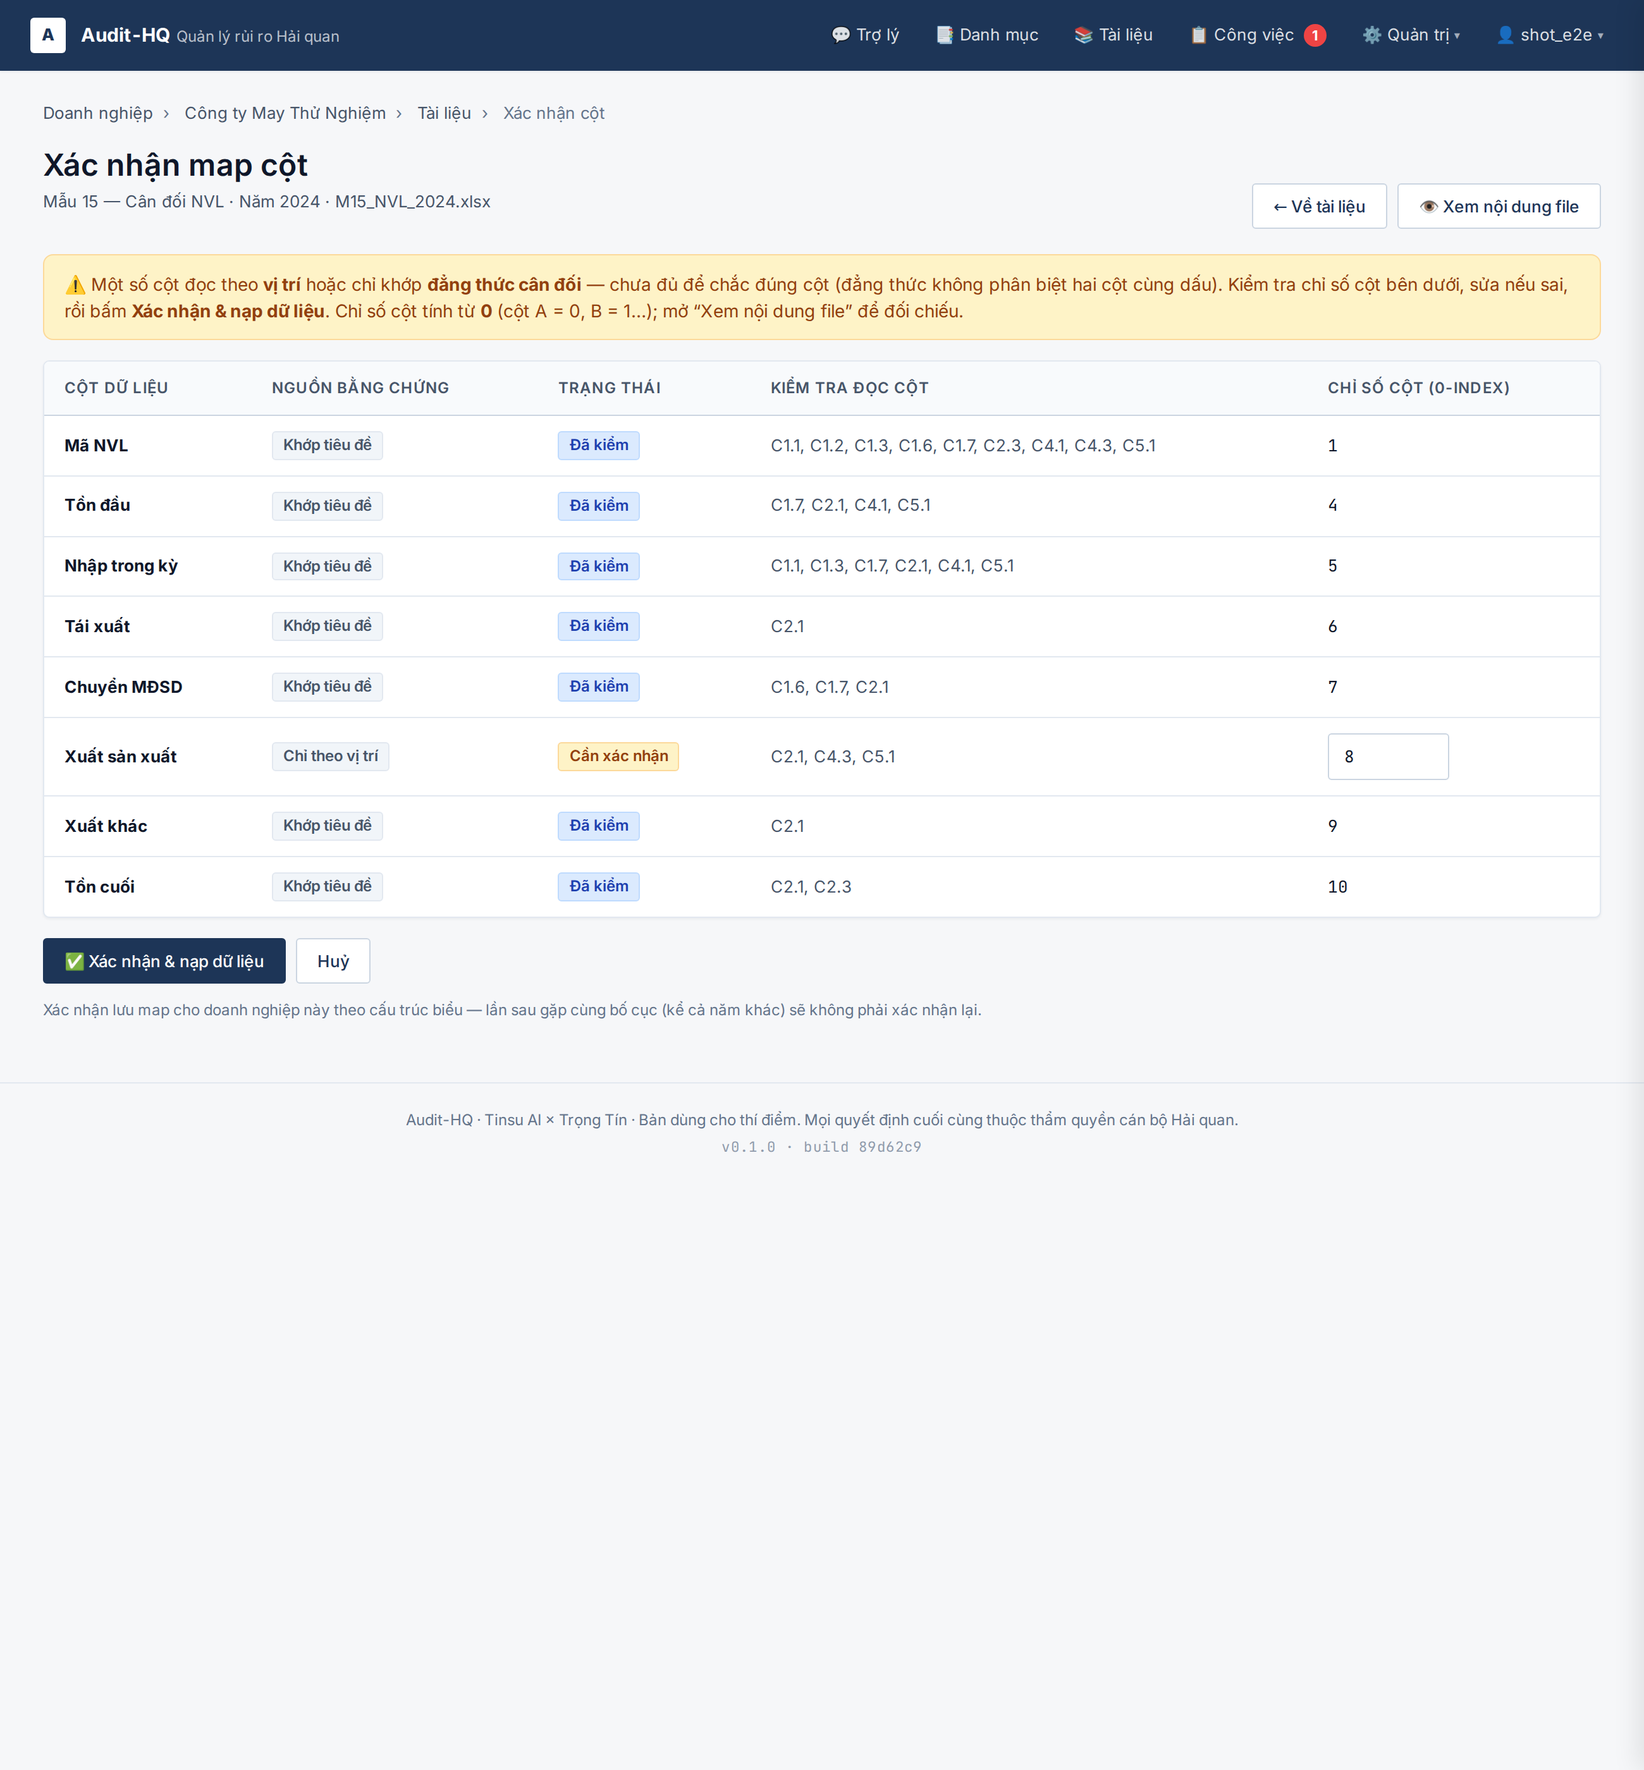
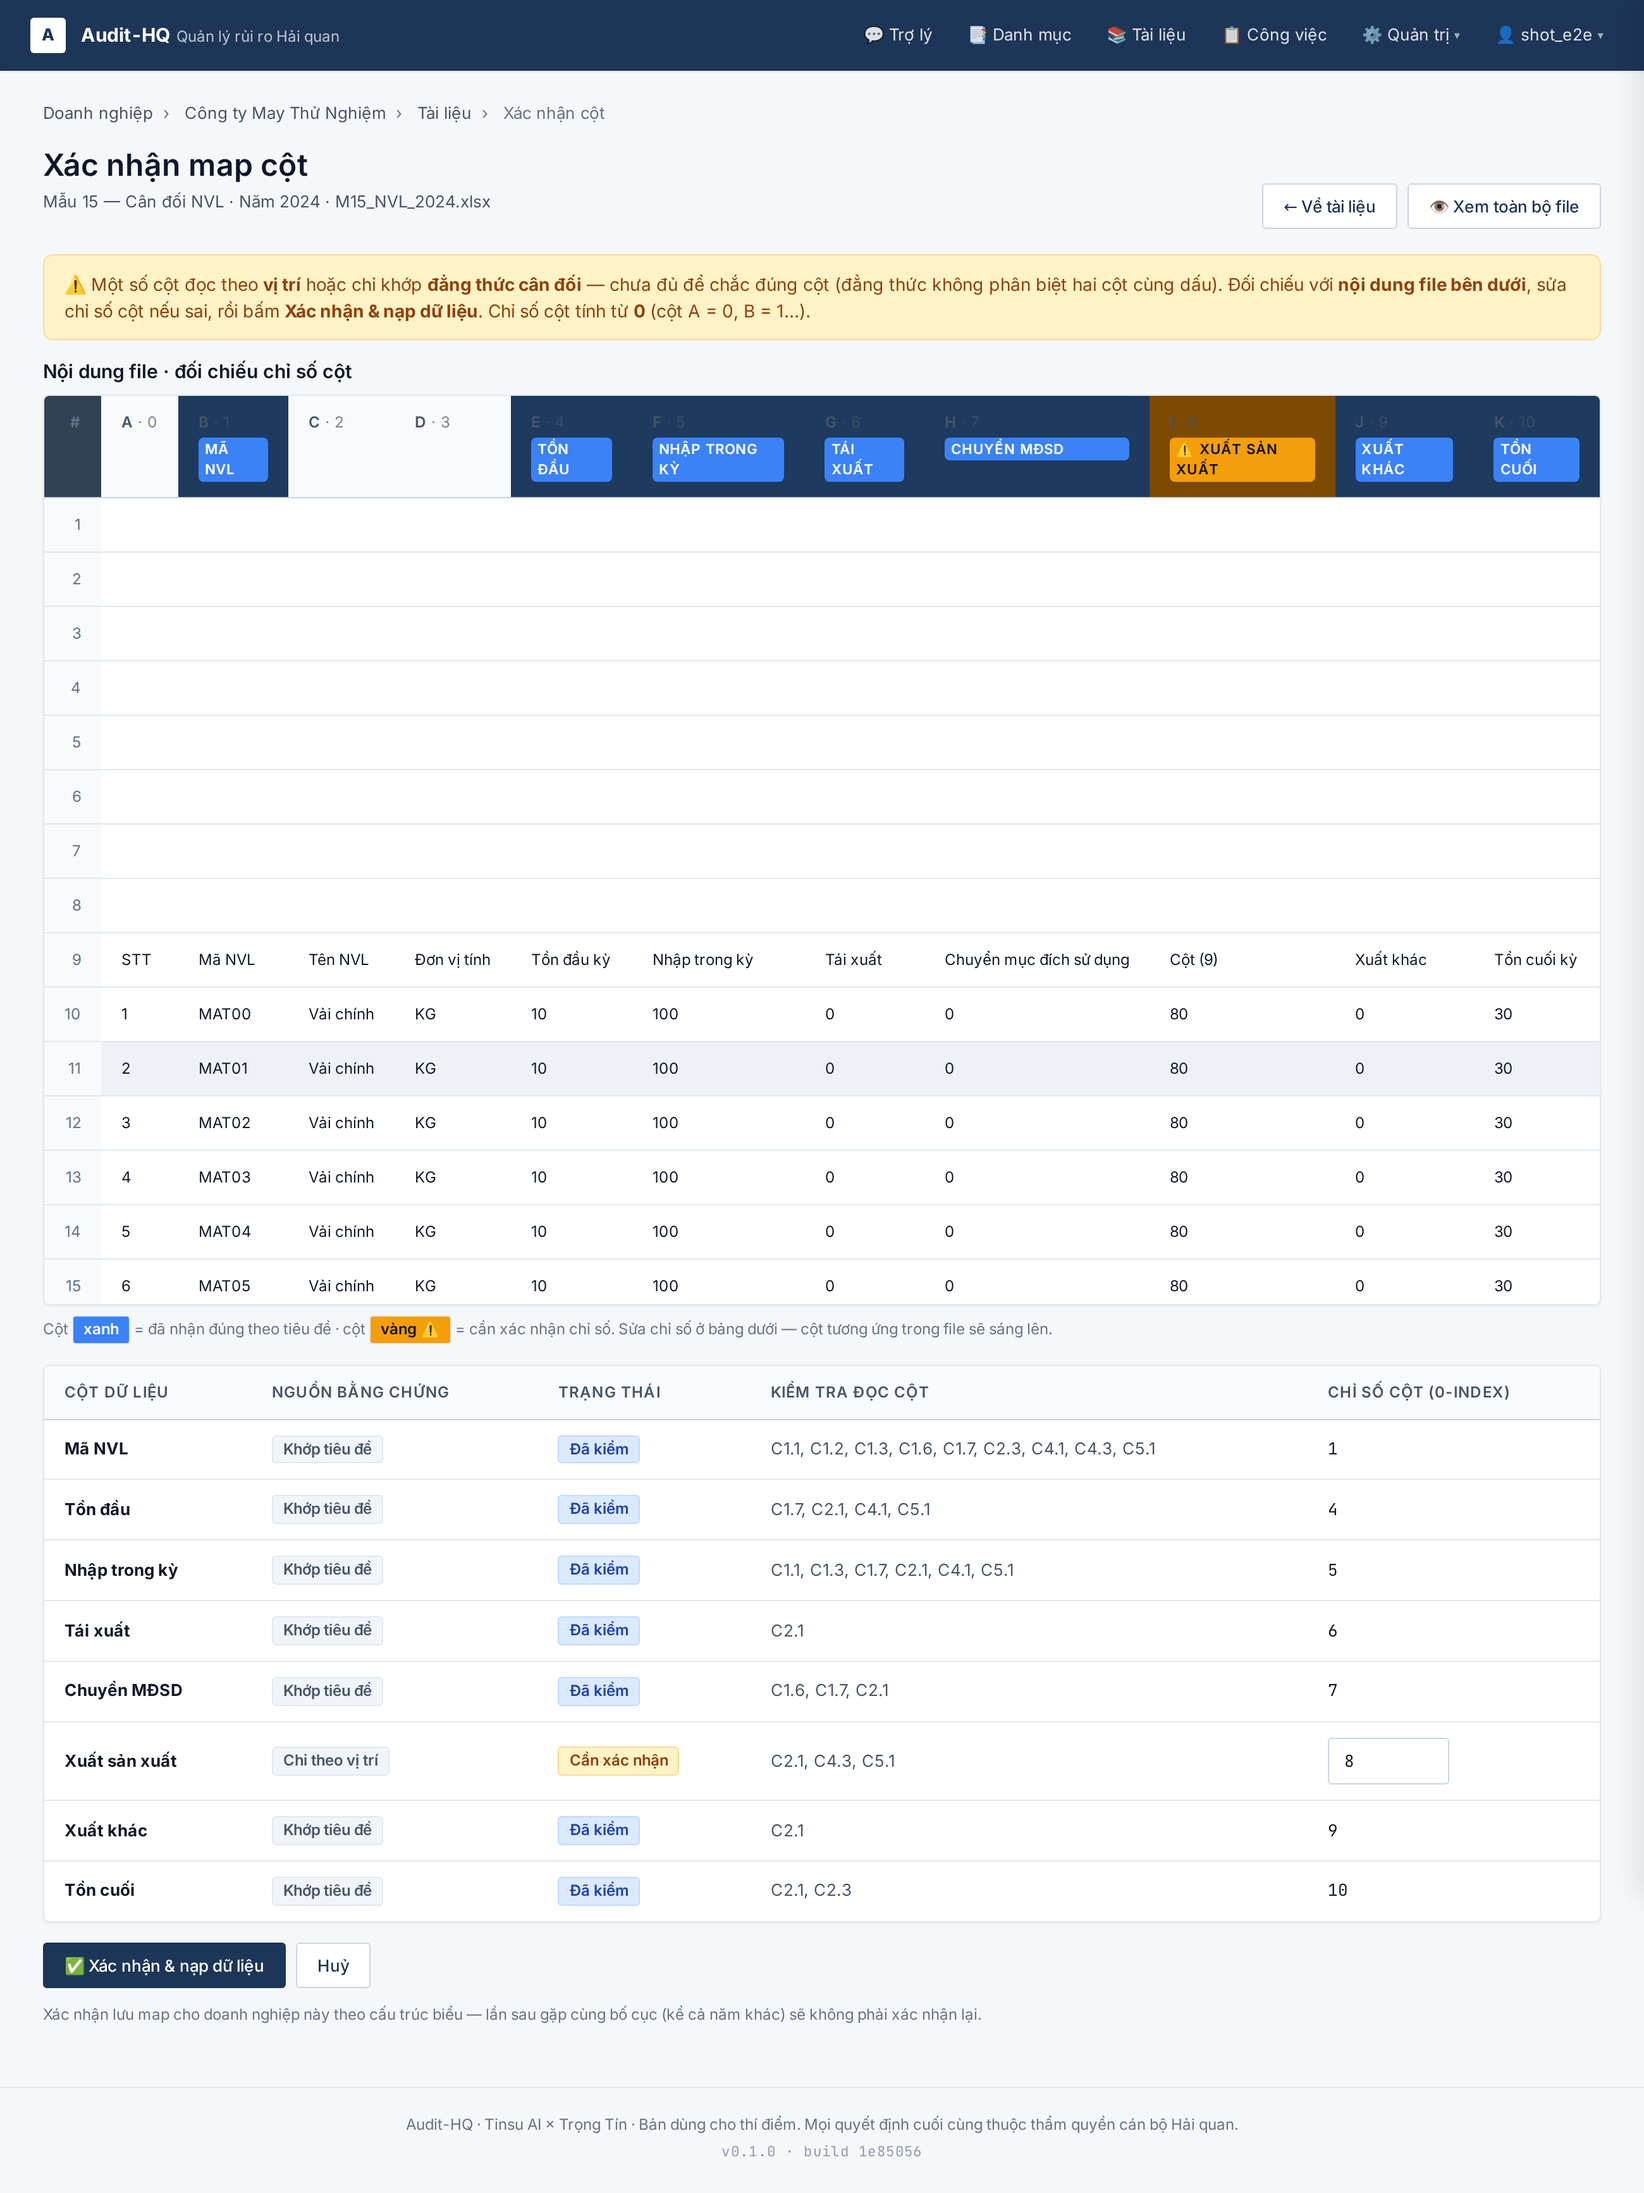
feat(ws1): embed file preview into the column-review screen
The confirm-columns screen showed column indices with no way to see what
is in them — the officer had to open a separate preview page and convert
index -> Excel letter by hand. Now it embeds the raw file grid (first 15
rows) with every column tagged by its mapped field: header-matched columns
blue, needs-review columns amber. Focusing a needs-review index input
live-highlights the matching column in the grid. Excel extraction is
refactored into _extract_sheet_preview(), shared by the preview + review
routes.

diff --git a/app/templates/document_review.html b/app/templates/document_review.html
@@ -1,6 +1,33 @@
 {% extends "base.html" %}
 {% block title %}Xác nhận cột — {{ file.original_filename }} — Audit-HQ{% endblock %}
 {% block content %}
+<style>
+  .preview-table td, .preview-table th {
+    white-space: nowrap; font-size: 12px; max-width: 220px;
+    overflow: hidden; text-overflow: ellipsis;
+  }
+  .preview-table th {
+    position: sticky; top: 0; background: #334155; color: #fff; z-index: 1;
+    vertical-align: top; text-align: left;
+  }
+  .preview-table .preview-rownum {
+    color: var(--c-text-subtle, #9ca3af); text-align: right;
+    background: var(--c-surface-alt, #f9fafb); position: sticky; left: 0;
+  }
+  .preview-table thead .preview-rownum { background: #334155; }
+  .rg-letter { font-weight: 600; }
+  .rg-idx { opacity: .7; font-weight: 400; }
+  .rg-field {
+    font-size: 11px; font-weight: 600; margin-top: 3px;
+    padding: 1px 5px; border-radius: 4px; white-space: normal;
+  }
+  .preview-table th.rg-mapped { background: #1e3a5f; }
+  .preview-table th.rg-mapped .rg-field { background: #3b82f6; color: #fff; }
+  .preview-table th.rg-needs { background: #7c4a03; }
+  .preview-table th.rg-needs .rg-field { background: #f59e0b; color: #111; }
+  .preview-table td.rg-hi { background: #fef3c7 !important; color: #111 !important; }
+  .preview-table th.rg-hi { background: #b45309 !important; }
+</style>
 
 <nav class="breadcrumbs">
   <a href="/companies">Doanh nghiệp</a><span class="sep">›</span>
@@ -18,17 +45,49 @@
   </div>
   <div class="btn-group">
     <a href="/companies/{{ company.slug or company.code }}/documents" class="btn btn-secondary">← Về tài liệu</a>
-    <a href="/companies/{{ company.slug or company.code }}/documents/file/{{ file.id }}/preview" class="btn btn-secondary">👁 Xem nội dung file</a>
+    <a href="/companies/{{ company.slug or company.code }}/documents/file/{{ file.id }}/preview" class="btn btn-secondary">👁 Xem toàn bộ file</a>
   </div>
 </div>
 
 <div class="alert alert-warning" role="status" style="margin-bottom:var(--space-4)">
-  <p style="margin:0">⚠ Một số cột đọc theo <strong>vị trí</strong> hoặc chỉ khớp <strong>đẳng thức cân đối</strong> — chưa đủ để chắc đúng cột (đẳng thức không phân biệt hai cột cùng dấu). Kiểm tra chỉ số cột bên dưới, sửa nếu sai, rồi bấm <strong>Xác nhận &amp; nạp dữ liệu</strong>. Chỉ số cột tính từ <strong>0</strong> (cột A = 0, B = 1…); mở “Xem nội dung file” để đối chiếu.</p>
+  <p style="margin:0">⚠ Một số cột đọc theo <strong>vị trí</strong> hoặc chỉ khớp <strong>đẳng thức cân đối</strong> — chưa đủ để chắc đúng cột (đẳng thức không phân biệt hai cột cùng dấu). Đối chiếu với <strong>nội dung file bên dưới</strong>, sửa chỉ số cột nếu sai, rồi bấm <strong>Xác nhận &amp; nạp dữ liệu</strong>. Chỉ số cột tính từ <strong>0</strong> (cột A = 0, B = 1…).</p>
 </div>
 
 {% if not can_confirm %}
 <div class="card"><p class="text-muted">File này chưa có map cột để xác nhận (chưa phân tích, hoặc không phát hiện cột nào cần xác nhận).</p></div>
 {% else %}
+
+{% if preview and preview.rows and not preview.error %}
+<h2 style="font-size:var(--fs-md);margin:0 0 var(--space-2)">Nội dung file · đối chiếu chỉ số cột</h2>
+<div class="card" style="padding:0;overflow:auto;max-height:48vh;margin-bottom:var(--space-2)">
+  <table class="data-table preview-table" id="review-grid">
+    <thead>
+      <tr>
+        <th class="preview-rownum">#</th>
+        {% for c in preview.columns %}
+        {% set a = col_annot.get(loop.index0) %}
+        <th data-col-index="{{ loop.index0 }}" class="{% if a and a.needs %}rg-needs{% elif a %}rg-mapped{% endif %}">
+          <div class="rg-letter">{{ c }} <span class="rg-idx">· {{ loop.index0 }}</span></div>
+          {% if a %}<div class="rg-field">{% if a.needs %}⚠ {% endif %}{{ a.label }}</div>{% endif %}
+        </th>
+        {% endfor %}
+      </tr>
+    </thead>
+    <tbody>
+      {% for r in preview.rows %}
+      <tr>
+        <td class="preview-rownum">{{ loop.index }}</td>
+        {% for cell in r %}<td data-col-index="{{ loop.index0 }}" title="{{ cell }}">{{ cell }}</td>{% endfor %}
+      </tr>
+      {% endfor %}
+    </tbody>
+  </table>
+</div>
+<p class="form-hint" style="margin:0 0 var(--space-4)">
+  Cột <span class="badge muted" style="background:#3b82f6;color:#fff">xanh</span> = đã nhận đúng theo tiêu đề · cột <span class="badge muted" style="background:#f59e0b;color:#111">vàng ⚠</span> = cần xác nhận chỉ số. Sửa chỉ số ở bảng dưới — cột tương ứng trong file sẽ sáng lên.
+</p>
+{% endif %}
+
 <form method="post" action="/companies/{{ company.slug or company.code }}/documents/file/{{ file.id }}/review">
   <div class="card" style="padding:0;overflow-x:auto">
     <table class="data-table">
@@ -53,7 +112,7 @@
           <td class="text-muted">{% if c.checks %}{{ c.checks|join(', ') }}{% else %}—{% endif %}</td>
           <td>
             {% if needs %}
-            <input type="number" class="form-input mono-input" name="col_{{ c.field }}"
+            <input type="number" class="form-input mono-input review-idx" name="col_{{ c.field }}"
                    value="{{ c.col_index if c.col_index is not none else '' }}" min="0" step="1"
                    style="max-width:96px">
             {% else %}
@@ -75,6 +134,25 @@
     Xác nhận lưu map cho doanh nghiệp này theo cấu trúc biểu — lần sau gặp cùng bố cục (kể cả năm khác) sẽ không phải xác nhận lại.
   </p>
 </form>
+
+<script>
+(function () {
+  var grid = document.getElementById('review-grid');
+  if (!grid) return;
+  function highlight(idx) {
+    grid.querySelectorAll('.rg-hi').forEach(function (el) { el.classList.remove('rg-hi'); });
+    if (idx === '' || idx === null) return;
+    grid.querySelectorAll('[data-col-index="' + idx + '"]').forEach(function (el) {
+      el.classList.add('rg-hi');
+    });
+  }
+  document.querySelectorAll('input.review-idx').forEach(function (inp) {
+    inp.addEventListener('input', function () { highlight(inp.value); });
+    inp.addEventListener('focus', function () { highlight(inp.value); });
+    inp.addEventListener('blur', function () { highlight(''); });
+  });
+})();
+</script>
 {% endif %}
 
 {% endblock %}

diff --git a/app/routes/companies.py b/app/routes/companies.py
@@ -952,6 +952,8 @@ def documents_download_file(
 
 PREVIEW_ROWS = 100
 PREVIEW_COLS = 40
+# Grid preview nhúng trong màn xác nhận cột (WS1) — ít dòng để đối chiếu chỉ số cột.
+REVIEW_PREVIEW_ROWS = 15
 
 
 def _excel_col_letters(n: int) -> list[str]:
@@ -965,6 +967,41 @@ def _excel_col_letters(n: int) -> list[str]:
             if x < 0:
                 break
         out.append(s)
+    return out
+
+
+def _extract_sheet_preview(
+    abs_path: Path, sheet: int = 0,
+    max_rows: int = PREVIEW_ROWS, max_cols: int = PREVIEW_COLS,
+) -> dict:
+    """Đọc thô (không qua adapter) `max_rows × max_cols` ô đầu của một sheet Excel.
+
+    Trả dict cho template: sheet_names, selected_sheet, columns (nhãn A/B/…), rows,
+    truncated_rows/cols, error. Dùng chung cho trang xem file + grid nhúng màn review.
+    """
+    import pandas as pd
+
+    out: dict = {
+        "sheet_names": [], "selected_sheet": 0, "columns": [], "rows": [],
+        "truncated_rows": False, "truncated_cols": False, "error": None,
+    }
+    try:
+        xls = pd.ExcelFile(abs_path)
+        out["sheet_names"] = list(xls.sheet_names)
+        sel = sheet if 0 <= sheet < len(out["sheet_names"]) else 0
+        out["selected_sheet"] = sel
+        df = pd.read_excel(xls, sheet_name=sel, header=None, nrows=max_rows + 1, dtype=object)
+        out["truncated_rows"] = len(df) > max_rows
+        df = df.iloc[:max_rows]
+        out["truncated_cols"] = df.shape[1] > max_cols
+        df = df.iloc[:, :max_cols]
+        out["columns"] = _excel_col_letters(df.shape[1])
+        out["rows"] = [
+            ["" if pd.isna(v) else str(v) for v in r]
+            for r in df.itertuples(index=False, name=None)
+        ]
+    except Exception as e:  # noqa: BLE001 — file hỏng/sai định dạng → báo nhẹ, không 500
+        out["error"] = f"{type(e).__name__}: {e}"
     return out
 
 
@@ -988,30 +1025,7 @@ def documents_preview_file(
     if not abs_path.is_file():
         raise HTTPException(status_code=404, detail="File không còn trên đĩa")
 
-    import pandas as pd
-
-    error = None
-    sheet_names: list[str] = []
-    columns: list[str] = []
-    rows_view: list[list[str]] = []
-    truncated_rows = truncated_cols = False
-    sel = 0
-    try:
-        xls = pd.ExcelFile(abs_path)
-        sheet_names = list(xls.sheet_names)
-        sel = sheet if 0 <= sheet < len(sheet_names) else 0
-        df = pd.read_excel(xls, sheet_name=sel, header=None, nrows=PREVIEW_ROWS + 1, dtype=object)
-        truncated_rows = len(df) > PREVIEW_ROWS
-        df = df.iloc[:PREVIEW_ROWS]
-        truncated_cols = df.shape[1] > PREVIEW_COLS
-        df = df.iloc[:, :PREVIEW_COLS]
-        columns = _excel_col_letters(df.shape[1])
-        rows_view = [
-            ["" if pd.isna(v) else str(v) for v in r]
-            for r in df.itertuples(index=False, name=None)
-        ]
-    except Exception as e:  # noqa: BLE001 — file hỏng/sai định dạng → báo nhẹ, không 500
-        error = f"{type(e).__name__}: {e}"
+    pv = _extract_sheet_preview(abs_path, sheet)
 
     return templates.TemplateResponse(
         request,
@@ -1021,16 +1035,16 @@ def documents_preview_file(
             "company": company,
             "file": row,
             "slot_label": SLOT_LABEL_VI.get(row.slot, row.slot),
-            "sheet_names": sheet_names,
-            "selected_sheet": sel,
-            "columns": columns,
-            "rows": rows_view,
-            "truncated_rows": truncated_rows,
-            "truncated_cols": truncated_cols,
+            "sheet_names": pv["sheet_names"],
+            "selected_sheet": pv["selected_sheet"],
+            "columns": pv["columns"],
+            "rows": pv["rows"],
+            "truncated_rows": pv["truncated_rows"],
+            "truncated_cols": pv["truncated_cols"],
             "preview_rows": PREVIEW_ROWS,
             "preview_cols": PREVIEW_COLS,
             "human_size": _human_size,
-            "error": error,
+            "error": pv["error"],
         },
     )
 
@@ -1068,6 +1082,22 @@ def documents_review_file(
             "checks": checks_reading(row.slot, field),
         })
 
+    # Grid preview nhúng: nội dung THẬT của file (dòng/cột đầu) để đối chiếu chỉ số cột —
+    # bảng chỉ-số-không thì cán bộ không biết cột 8 là gì. Annotate mỗi cột grid bằng
+    # field đã map (tô màu) + cột needs_review (vàng). Số cột grid phủ đủ chỉ số đã map.
+    mapped_idx = [i for i in column_map.values() if isinstance(i, int)]
+    grid_cols = min(max((max(mapped_idx) + 2 if mapped_idx else 0), 8), PREVIEW_COLS)
+    abs_path = _resolve_within_root(row.stored_path)
+    preview = (
+        _extract_sheet_preview(abs_path, 0, REVIEW_PREVIEW_ROWS, grid_cols)
+        if abs_path.is_file() else None
+    )
+    col_annot = {
+        c["col_index"]: {"label": c["label"], "needs": c.get("review") == "needs_review"}
+        for c in view_cols
+        if isinstance(c.get("col_index"), int)
+    }
+
     return templates.TemplateResponse(
         request,
         "document_review.html",
@@ -1080,6 +1110,8 @@ def documents_review_file(
             "form_signature": form_signature,
             "can_confirm": bool(form_signature and column_map),
             "human_size": _human_size,
+            "preview": preview,
+            "col_annot": col_annot,
         },
     )
 
